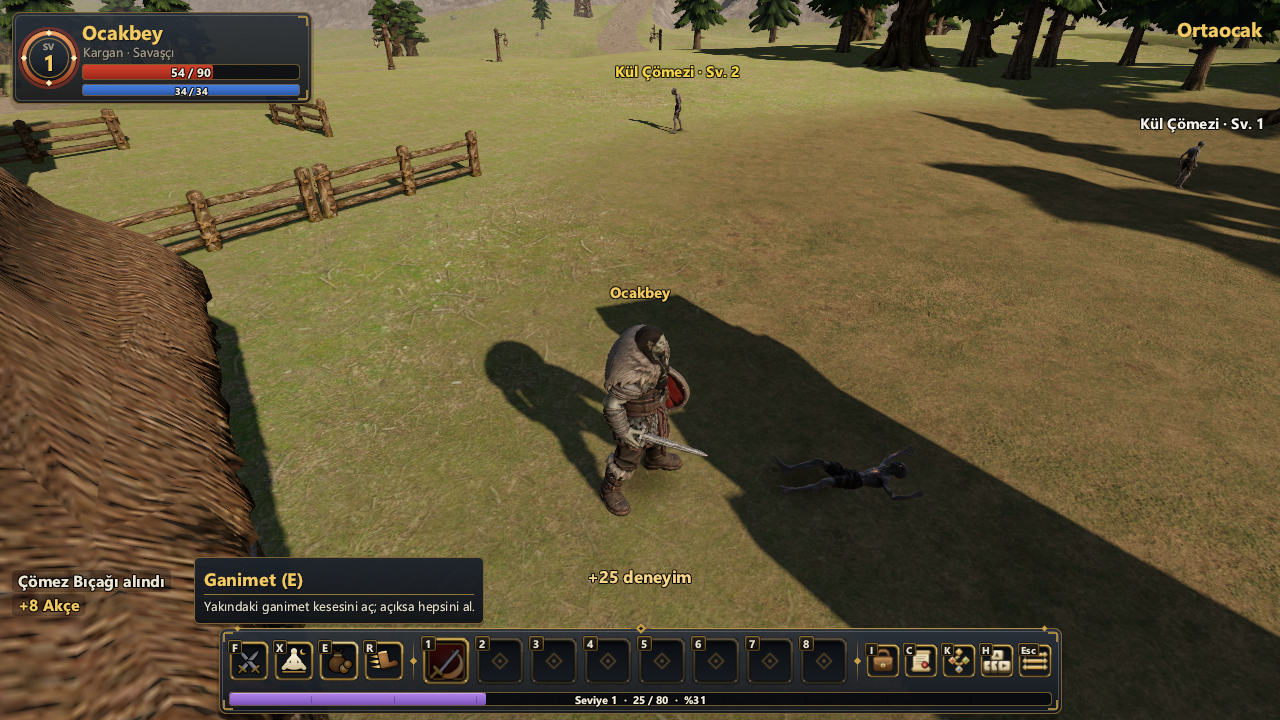
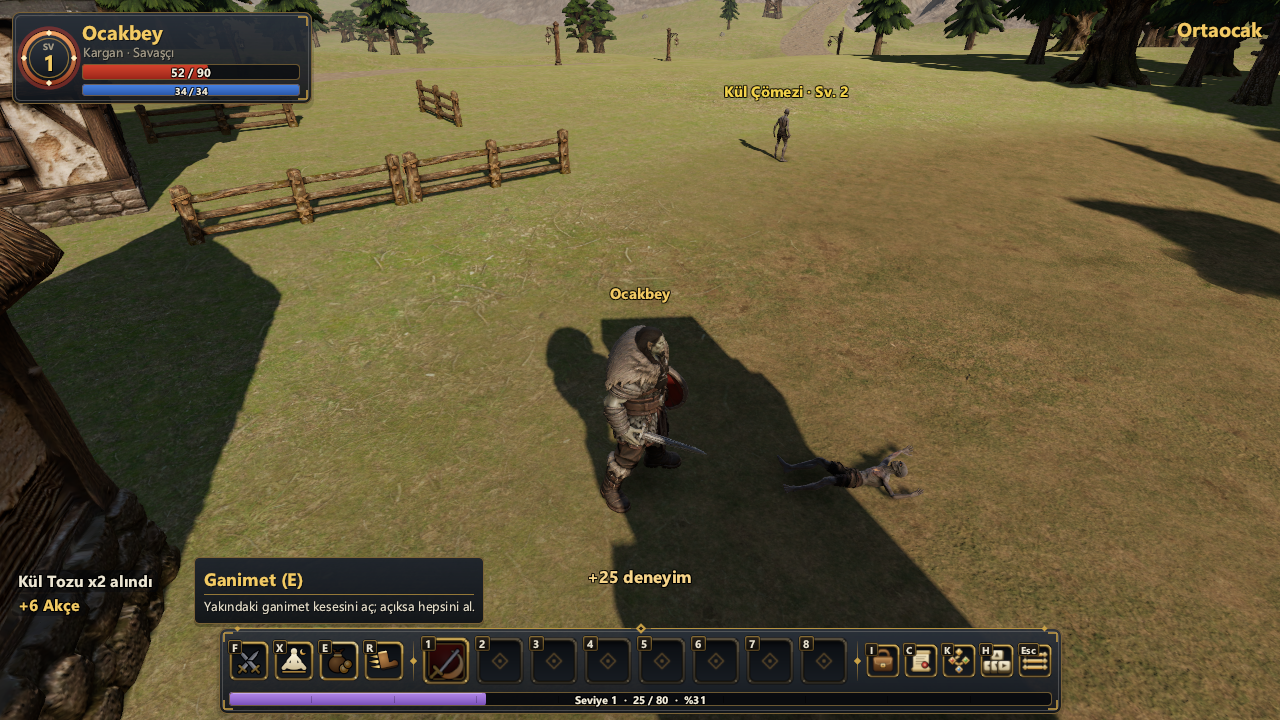
HUD: unspent-points marker inside the button corner; DEVELOPMENT_PLAN §28 draft; screenshots refreshed

diff --git a/client/scenes/HudBar.cpp b/client/scenes/HudBar.cpp
@@ -173,7 +173,8 @@ void HudIconButton::drawSelf(ui::DrawContext& ctx)
     if (n > 0)
     {
         const float d = std::round(std::max(16.0f, r.w * 0.5f));
-        const Vec2 c{std::round(r.right() - d * 0.2f), std::round(r.y + d * 0.2f)};
+        // Inside the button's own top-right corner: the next button's key badge stays clear.
+        const Vec2 c{std::round(r.right() - d * 0.5f), std::round(r.y + d * 0.05f)};
         for (int i = 3; i >= 1; --i)
         {
             const float rr = d * 0.5f + ctx.pxf(1.5f + 2.5f * static_cast<float>(i)) * (0.8f + 0.4f * pulse);

diff --git a/docs/DEVELOPMENT_PLAN.md b/docs/DEVELOPMENT_PLAN.md
@@ -872,3 +872,40 @@ taşındı). Eski akışlara ve testlere dokunulmadı.
 
 **Doğrulanmadı**: Release derlemesi; iki istemcinin aynı anda bölge değiştirmesi (öteki oyuncunun
 kaybolup belirmesi); 20 s yükleme korumasının dolması; başka ekran kartları.
+
+## 28. HUD — oyun ekranının arayüzü (2026-11-17)
+
+İstek: alttaki gri yardım satırları ("X: otur / kalk" …) amatör görünüyordu; yerine bitmiş bir oyunun
+HUD'u. Ayrıntılar `docs/CLIENT_RENDERING.md` §15'te, tuşlar `docs/BUILDING.md`'de. Protokole, sunucuya,
+`shared/` oyun koduna, `gamedata/` verisine ve göçlere dokunulmadı.
+
+| Konu | Ne yapıldı | Nasıl doğrulandı |
+|---|---|---|
+| Yardım satırları | İki satır (`world.help`, `world.help.combat`) ve sağ üstteki üç yazılı düğme kaldırıldı | `hud` akışı, bütün ekran görüntüleri |
+| Alt çubuk | Altta ortada tek çerçeveli parça (pencerelerin koyu zemini, bronz kenar, üst kenarda altın çizgi ve elmaslar, köşe süsleri): solda dört eylem düğmesi (Saldır F, Otur / Kalk X, Ganimet E, Yürü / Koş R), ayraç, 8 yetenek yuvası (davranış aynı: 1-8, tık, sürükle, sağ tık, bekleme süpürmesi), ayraç, beş menü düğmesi (Envanter I, Künye C, Yetenekler K, Tuşlar H, Menü Esc); altında deneyim çubuğu ("Seviye N · xp / sonraki · %p", onda bir çentikler; üstüne gelince tam sayılar ve kalan). Düğmeler tuşa basmakla aynı işi yapar; köşede tuş rozeti; açık / basılı durum yanar (oturmak, saldırmak, açık pencere), Yürü / Koş simgesi yürüyüşü gösterir (çizme / ayak izi), Ganimet erişilebilir kese varken nabız gibi parlar, Künye / Yetenekler'de harcanmamış puan altın dairede | `hud` akışı (her düğme tıklanarak) |
+| İpuçları | Her HUD düğmesinde: "Ad (Tuş)", bir satır, varsa durum ("Şu an: oturuyorsun", "Şu an: yürüyüş (Shift basılıyken koş)", "Önce bir canavar seç…", puanlar); kutu çubuğun üstünde | `HudViewTests`, `hud` (`hud.tooltip`) |
+| Tuşlar penceresi | H, çubuk düğmesi ya da "X" ile; gruplar Hareket, Kamera, Diğer · Dövüş, Pencereler; her satırda tuşlar tuş başlığı biçiminde ve bir açıklama. Eski yardım satırlarındaki her denetim içinde (basılı tut: oraya git, Tab, Shift ile yürü, PgUp / PgDn, tekerlek, F3 …). Ekrana sığmazsa içerik küçülür; opak zemin | `HudViewTests` (eski satırların her parçası aranıyor), `hud` (`controls.text`) |
+| Esc sırası | ganimet penceresi → Tuşlar → Yetenekler → Künye → envanter → hedef → menü (`escapeActionHud`) | `HudViewTests`, `hud` |
+| Oyuncu çerçevesi | Sol üstte: seviye madalyonu (altın kenar; dövüşte kırmızı-altın ve hafif nabız), ad, "ırk · sınıf", sayılı can ve mana çubukları; etki simgeleri altında | ekran görüntüleri |
+| Hedef çerçevesi | Ad (seviye rengi), "Sv. N" çipi, elitlerde altın "Elit" çipi ve kenar, ikinci satır ("Canavar", "Elit canavar" ya da oyuncunun ırk · sınıfı; ölüyse "Ölü"), sayılı can çubuğu; etki simgeleri altında | `hud` (15) |
+| Sağ üst | Bölge adı yumuşak koyu bir zemin üstünde, "● Güvenli Bölge" hemen altında | ekran görüntüleri |
+| F3 | Bilgi paneli oyuncu için varsayılan kapalı; akışların okuduğu yazılar gizliyken de okunuyor | `hud` (`noinfopanel`), eski akışlar |
+| Simgeler | `tools/blender/gen_hud_art.py`: on düğme simgesi (`ui/hud/*.png`, 64²), M12 simgeleriyle aynı SDF ressamı ve mürekkep çizgisi; M12 yuva parçalarının içine çiziliyor; indirme yok, Blender yalnız arka planda. assetc'nin UI kuralı `ui/hud/`'u da kapsıyor | `build-assets.ps1` (`ui\hud\attack.vtex` zorunlu), çizim sayfası `build/art_sheets/hud` |
+| Yerleşim | `HudView.h` `computeHudBar` çubuğu mantıksal ekrana göre kurar (tam boyda 843x86; ekran 859 mantıksal pikselden darsa orantılı küçülür — ölçek uydurması 1024x640 @150 %'ü 960x600 yaptığından pratikte olmuyor). Döküm çubuğu, savaş iletisi, kapı ipucu ve ganimet satırları çubuğun üstünden hesaplanıyor (`hudBottomLines`) | `HudViewTests` (dokuz ekran boyunda hiçbir parça çakışmıyor) |
+| Pencereler | Künye ve Yetenekler solda, envanter sağda, Tuşlar ortada: önce üstteki HUD ile çubuk arasındaki boşluğa ortalanır; sığmazsa ekranın üstünden çubuğa kadar; o da olmazsa bütün ekrana. Açık bir pencerenin hâlâ örttüğü HUD parçası (çubuk, oyuncu çerçevesi + etkileri, hedef çerçevesi, bölge adı, F3 paneli) pencere kapanana kadar gizlenir. **Eski çakışma giderildi**: 1024x640 @150 %'te (960x600 mantıksal) Künye artık oyuncu çerçevesi ile çubuk arasına sığıyor; Yetenekler (424 yüksek) oyuncu çerçevesinin üstüne geliyor (çerçeve o sürede gizli), çubuğu hiç örtmüyor | `HudViewTests`, `hud` (21-23) |
+
+**Yeni akış** `hud` (tek koşu; 1920x1080 açılır, sonra 1280x720'ye ve 1024x640 @150 %'e küçültülür —
+pencere masaüstünden büyüyemediği için büyükten küçüğe): ipuçları (deneyim çubuğu dahil), üç pencere bir
+arada, otur ve yürü düğmeleri; 1280x720'de her düğme tıklanarak, Tuşlar ve Esc sırası (Künye açıkken),
+Menü düğmesi, pencere düğmeleri, Saldır düğmesiyle dövüş, Ganimet düğmesiyle aç ve hepsini al; köye
+dönüş; 1024x640 @150 %'te ipucu, Künye, Yetenekler, envanter, Tuşlar, otur, menü. Ekran görüntüleri:
+`docs/screenshots/hud/01…25_*.png` (hepsine bakıldı).
+
+**Değişen eski dosyalar**: `WorldScene` (HUD kurulumu ve yerleşimi, H tuşu, Esc sırası, durumlar, afişin
+sağ sınırı), `WorldCombat` (hedef çerçevesi, oyuncu çerçevesi çizimi; can / mana / deneyim çubukları
+eski yerlerinden kalktı), `WorldSkills` (yuvalar çubuğun içinde, eski "Yetenekler (K)" düğmesi ve
+yardım satırı kalktı, HUD ipuçları), `WorldStats` (eski "Künye (C)" düğmesi kalktı), `WorldLoot`
+(ganimet penceresi ve satırları yeni çubuğa göre, `lootReachable`), `WorldZones` (kapı ipucu çubuğun
+üstünde), `SkillBar` (`SkillsButton` kalktı, `SkillSlotsWidget::setMetrics`), `LootView.h`
+(`EscapeAction::CloseControls`), assetc (`ui/hud/`), `build-assets.ps1`, `build_all.ps1`,
+`run-ui-flows.ps1` (`hud` akışı).
